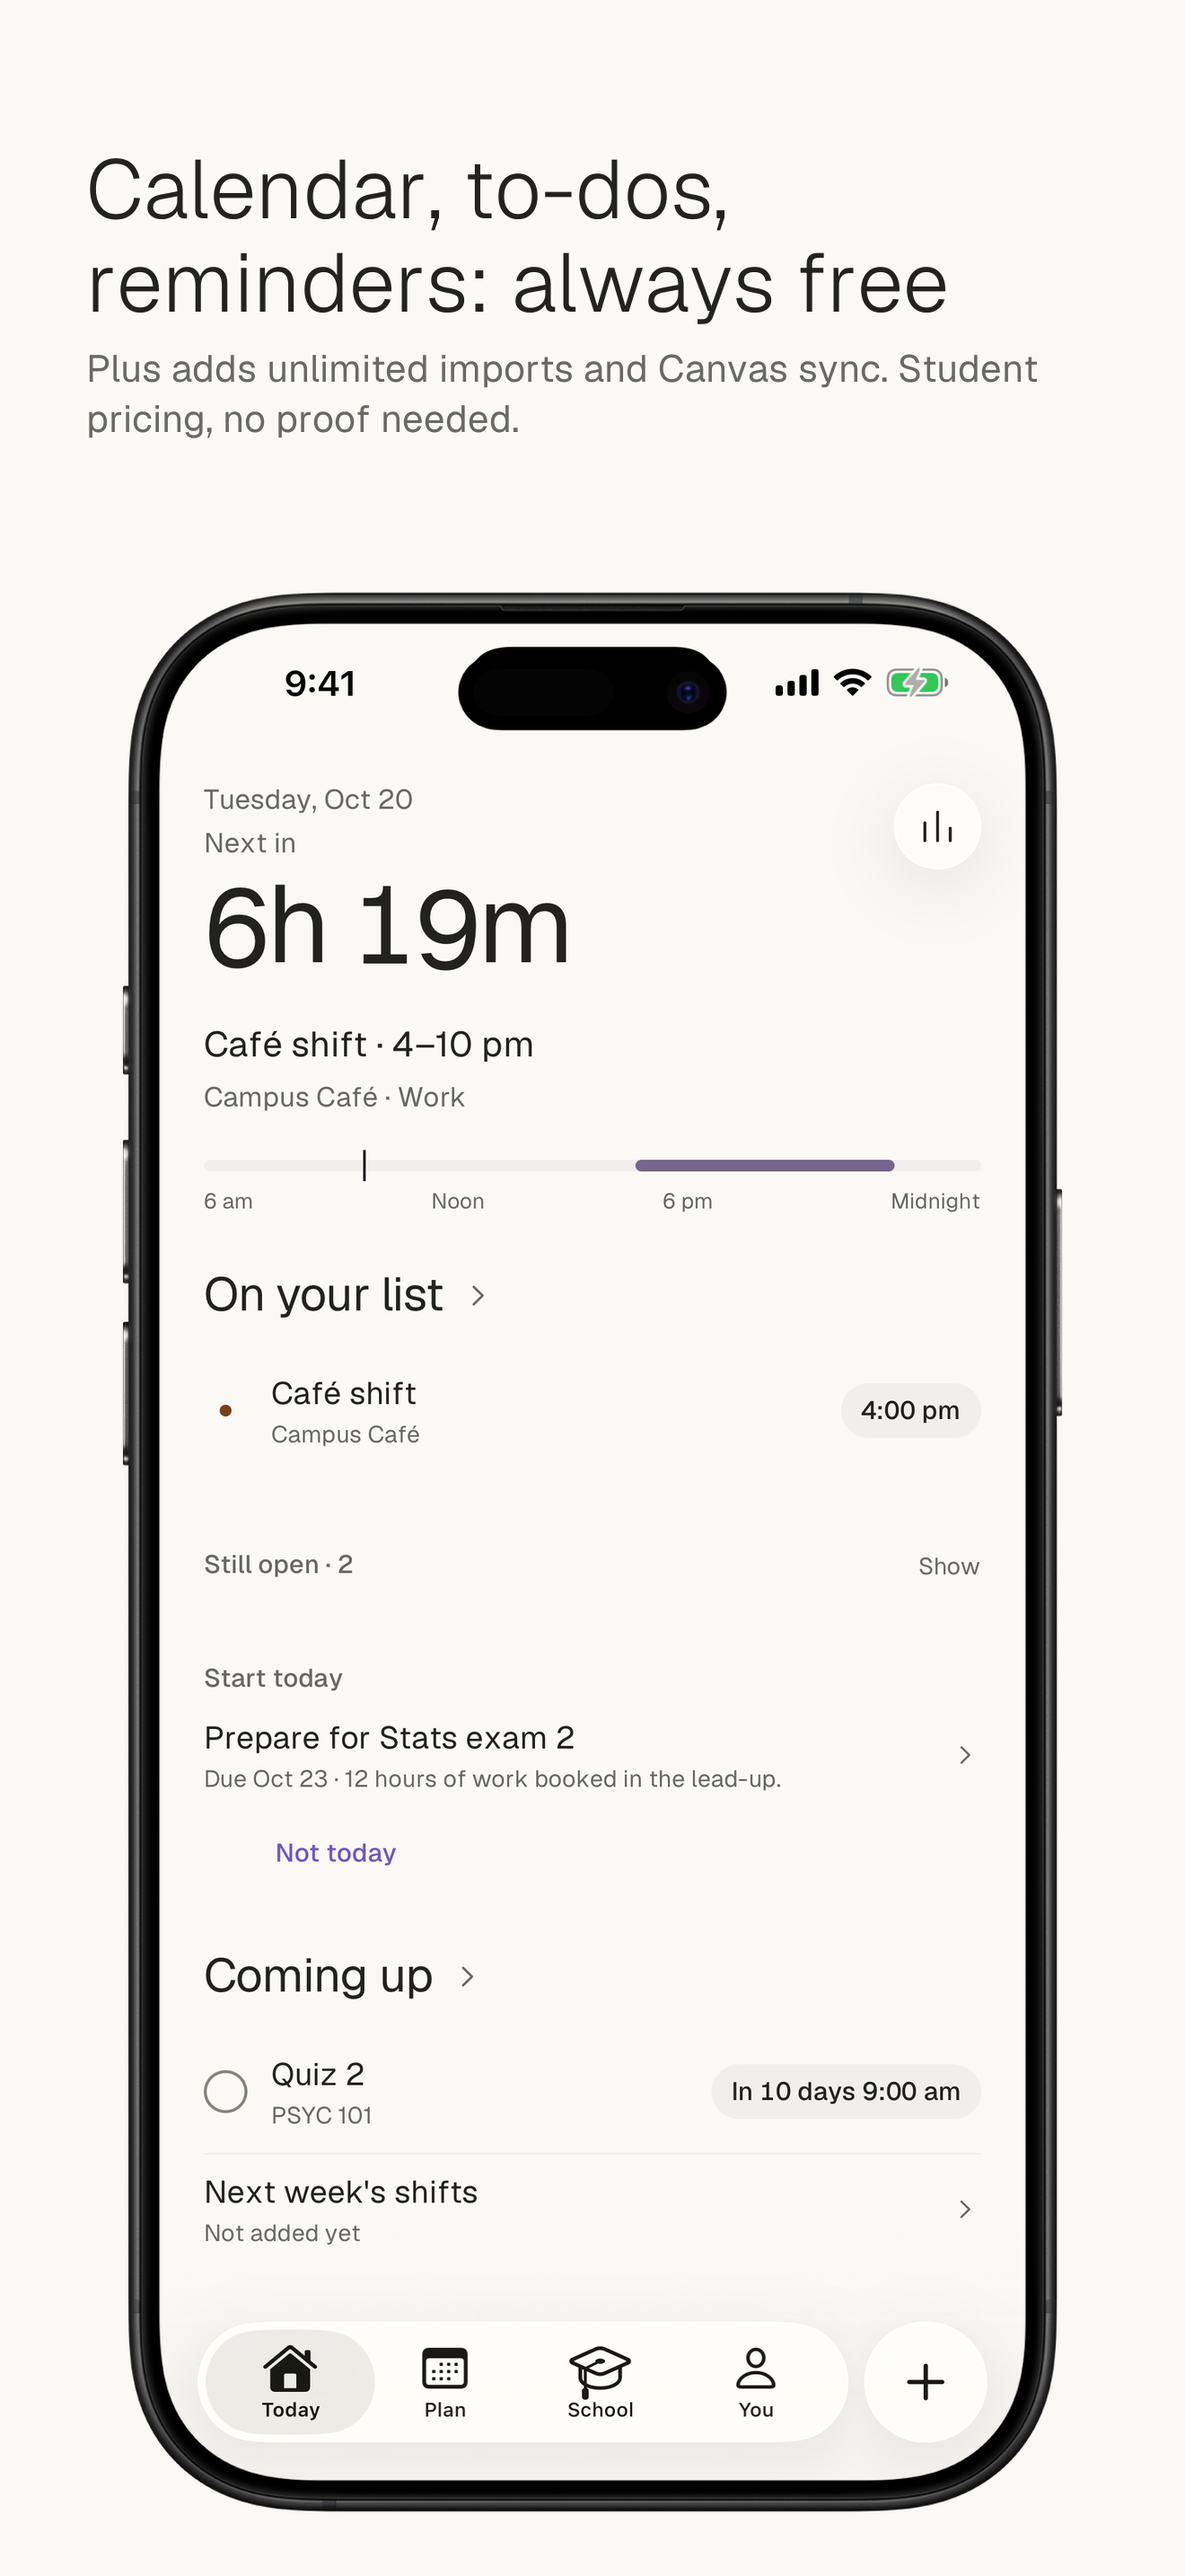
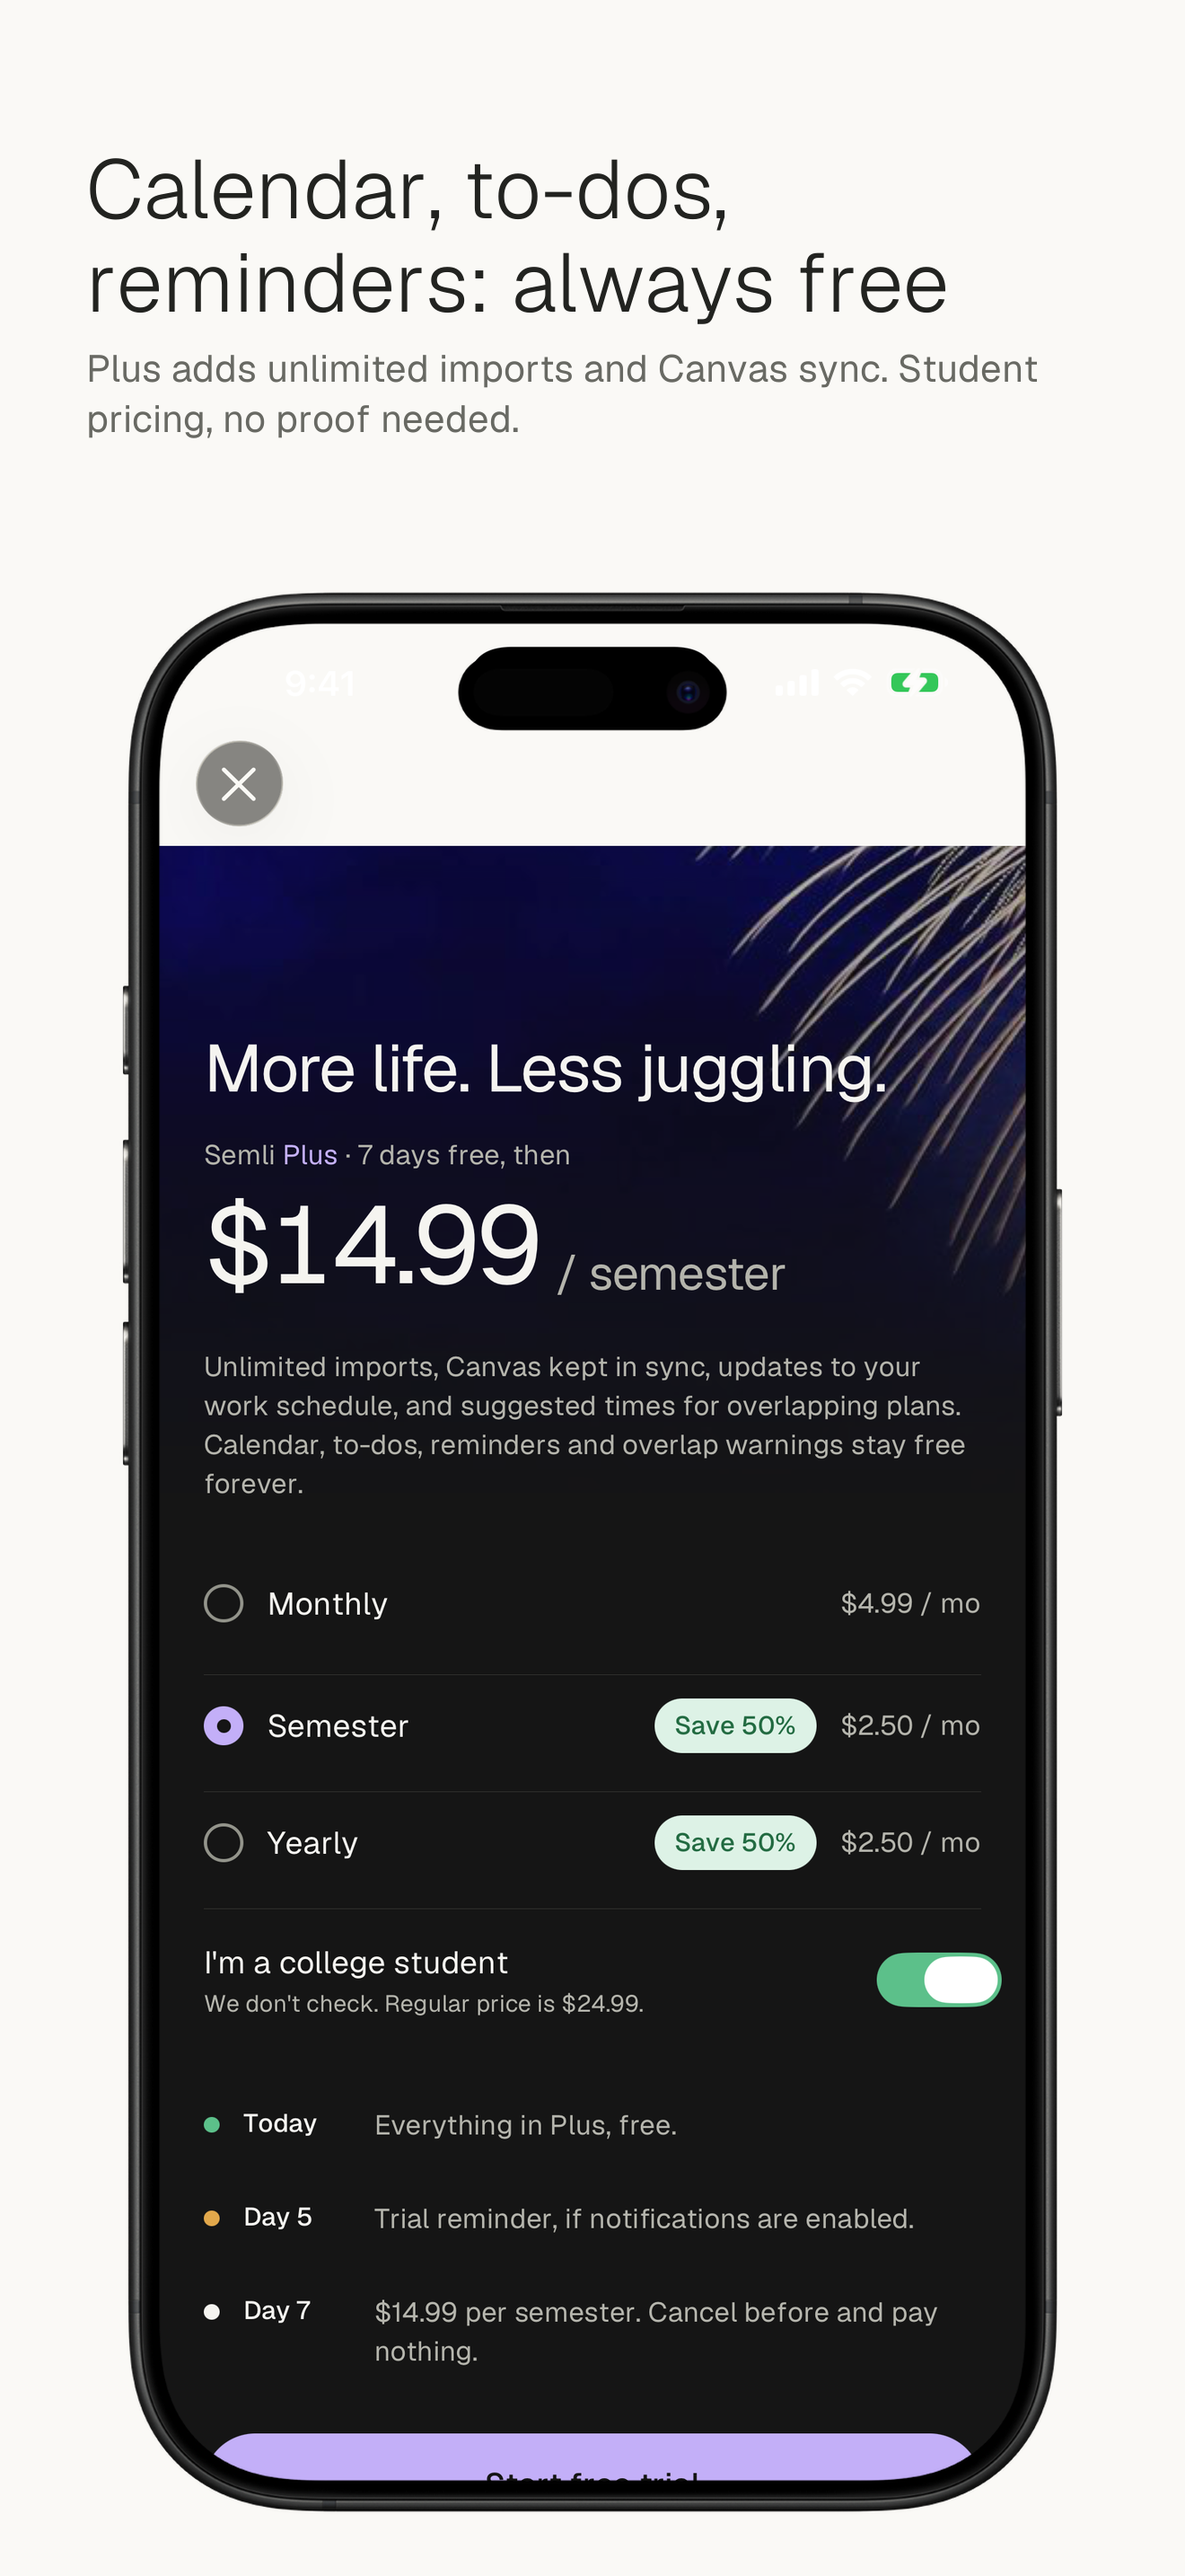
Refactor code structure and remove redundant code blocks for improved readability and maintainability

diff --git a/apps/mobile/src/store/sample.ts b/apps/mobile/src/store/sample.ts
@@ -85,11 +85,12 @@ export function sampleWeek(today: string, options: { student?: boolean; preview?
 }
 
 /**
- * Development only: next week's Campus Café schedule as the model would read it, one shift
- * with no time. Opens the review screen for screenshots without calling the API.
+ * Development only: a Campus Café schedule as the model would read it, for the review screen
+ * without calling the API. `next` is next week with one shift missing its time; `update` is
+ * this week with one shift moved, one new and one dropped, so the review shows the changes.
  */
-export function sampleScheduleExtraction(today: string): Extraction {
-  const next = weekOf(addDays(today, 7)) as [string, string, string, string, string, string, string];
+export function sampleScheduleExtraction(today: string, mode: 'next' | 'update' = 'next'): Extraction {
+  const next = weekOf(mode === 'next' ? addDays(today, 7) : today) as [string, string, string, string, string, string, string];
   const shift = (date: string, start: string | null, end: string | null) => ({
     kind: 'event' as const, title: 'Café shift', category: 'work' as const, date, start, end, is_deadline: false,
     repeat_weekdays: [], repeat_until: null, course_code: null, evidence: `${date} ${start ?? ''}–${end ?? ''}`,
@@ -97,7 +98,9 @@ export function sampleScheduleExtraction(today: string): Extraction {
   });
   return {
     detected_type: 'work_schedule', employer: EMPLOYER, course: null, covers_from: next[0], covers_to: next[6],
-    items: [shift(next[0], '16:00', '22:00'), shift(next[1], '16:00', '22:00'), shift(next[3], '16:00', '22:00'), shift(next[4], null, null), shift(next[5], '09:00', '15:00'), shift(next[6], '11:00', '17:00')],
+    items: mode === 'next'
+      ? [shift(next[0], '16:00', '22:00'), shift(next[1], '16:00', '22:00'), shift(next[3], '16:00', '22:00'), shift(next[4], null, null), shift(next[5], '09:00', '15:00'), shift(next[6], '11:00', '17:00')]
+      : [shift(next[0], '16:00', '22:00'), shift(next[1], '16:00', '22:00'), shift(next[2], '17:00', '21:00'), shift(next[3], '17:00', '23:00'), shift(next[6], '11:00', '17:00')],
   };
 }
 

diff --git a/apps/mobile/src/app/review.tsx b/apps/mobile/src/app/review.tsx
@@ -3,7 +3,7 @@ import {
   type CommitPlan, type DatedDraft, type Draft,
 } from '@dayli/core';
 import type { Item } from '@dayli/schema';
-import { router } from 'expo-router';
+import { router, useLocalSearchParams } from 'expo-router';
 import { useCallback, useEffect, useMemo, useRef, useState, type ReactNode } from 'react';
 import { ScrollView, StyleSheet, View } from 'react-native';
 import Animated from 'react-native-reanimated';
@@ -24,6 +24,7 @@ import { usePlusAccess } from '@/lib/plus-access';
 import { purchaseErrorMessage } from '@/lib/revenuecat';
 import { usePurchases } from '@/providers/PurchasesProvider';
 import { newId, useCourseList, useItemList, useStore } from '@/store';
+import { sampleScheduleExtraction } from '@/store/sample';
 import { SCREEN_GUTTER, useTheme } from '@/theme';
 
 /*
@@ -37,7 +38,14 @@ type SeriesEnd = { mode: 'suggested' | 'pick'; date: string };
 
 export default function ReviewScreen() {
   const { c } = useTheme();
-  const pending = useStore((s) => s.pending);
+  // Development only: semli://review?dev=schedule|update opens the sample schedule for screenshots.
+  const params = useLocalSearchParams<{ dev?: string }>();
+  const devMode = __DEV__ && (params.dev === 'schedule' || params.dev === 'update') ? params.dev : null;
+  const stored = useStore((s) => s.pending);
+  const pending = useMemo(
+    () => stored ?? (devMode ? { extraction: sampleScheduleExtraction(localParts(new Date()).date, devMode === 'update' ? 'update' : 'next'), source: 'Screenshot' } : null),
+    [stored, devMode],
+  );
   const setPending = useStore((s) => s.setPending);
   const applyPlan = useStore((s) => s.applyPlan);
   const showToast = useStore((s) => s.showToast);

diff --git a/apps/mobile/src/app/_layout.tsx b/apps/mobile/src/app/_layout.tsx
@@ -82,6 +82,14 @@ function RootLayout() {
           useStore.setState({ items: Object.fromEntries(week.items.map((i) => [i.id, i])), courses: week.courses, schedules: week.schedules });
         }
       }
+      if (cmd === 'plus') {
+        // Back into onboarding, where dev-step.txt = plus opens the paywall page without a cover.
+        store.setSettings({ onboarded: false, seeded: true, isStudent: true, major: 'nursing' });
+        if (Object.keys(store.items).length === 0) {
+          const week = sampleWeek(today, { student: true, preview: true });
+          useStore.setState({ items: Object.fromEntries(week.items.map((i) => [i.id, i])), courses: week.courses, schedules: week.schedules });
+        }
+      }
       if (cmd === 'review' || cmd === 'review-update') {
         store.setPending({ extraction: (cmd === 'review' ? sampleScheduleExtraction : sampleScheduleUpdate)(today), source: 'Screenshot' });
         setTimeout(() => router.push('/review'), 2500);

diff --git a/apps/mobile/src/lib/dev.ts b/apps/mobile/src/lib/dev.ts
@@ -16,7 +16,7 @@ export async function devStep(): Promise<string | null> {
   }
 }
 
-/** Reads the dev file as a command: "sample", "moment", "item", "hours", "list", "review", or "review-update". */
+/** Reads the dev file as a command: "sample", "moment", "item", "hours", "list", "plus", "review", or "review-update". */
 export async function devCommand(): Promise<string | null> {
   if (!__DEV__) return null;
   try {

diff --git a/design/render-screenshots.py b/design/render-screenshots.py
@@ -4,7 +4,7 @@
 Input: design/screenshots/raw/<name>.png, 1320 x 2868 captures from the iPhone 17 Pro Max
 simulator (dev build, light mode, 9:41 status bar; see docs/launch-guide.md, part 2).
 Output: design/screenshots/<nn>-<name>.png at 1320 x 2868, no alpha, ready for the
-6.9-inch slot. Caption in Geist on paper, ink text, one device per image bleeding off
+6.9-inch slot. Caption in Geist Medium on paper, ink text, one device per image bleeding off
 the bottom edge, as the best-selling planners do (Things, Structured, Opal).
 
     python3 design/render-screenshots.py                 # all, default layout
@@ -26,6 +26,8 @@ RAW = ROOT / "design" / "screenshots" / "raw"
 OUT = ROOT / "design" / "screenshots"
 FONTS = ROOT / "apps" / "mobile" / "assets" / "fonts"
 WORDMARK = ROOT / "apps" / "mobile" / "assets" / "images" / "splash-icon-light.png"
+FRAME = ROOT / "apps" / "web" / "public" / "phones" / "iphone-frame.png"  # 944 x 1902, the site's device render
+FRAME_MASK = ROOT / "apps" / "web" / "public" / "phones" / "iphone-screen-mask.png"  # 850 x 1814, screen box at (47, 44)
 
 W, H = 1320, 2868
 PAPER = (250, 249, 246)
@@ -45,7 +47,7 @@ class Layout:
     secondary: tuple[int, int, int]
     title_size: int = 112
     title_lead: int = 124
-    title_weight: str = "Regular"
+    title_weight: str = "Medium"
     sub_size: int = 46
     sub_lead: int = 58
     margin: int = 96
@@ -55,13 +57,15 @@ class Layout:
     bezel: int = 28
     radius: int = 140
     shadow: int = 44
+    frame: bool = False  # True draws the site's photographic iPhone frame instead of the flat bezel
 
 
 LAYOUTS = {
     "left": Layout("left", "left", PAPER, INK, SECONDARY),
     "center": Layout("center", "center", PAPER, INK, SECONDARY, title_size=120, title_lead=132),
     "ink": Layout("ink", "center", INK, PAPER, DARK_SECONDARY, title_size=120, title_lead=132),
-    "medium": Layout("medium", "left", PAPER, INK, SECONDARY, title_weight="Medium"),
+    "regular": Layout("regular", "left", PAPER, INK, SECONDARY, title_weight="Regular"),
+    "frame": Layout("frame", "left", PAPER, INK, SECONDARY, frame=True, screen_w=1176),
 }
 
 # Order matters: the first three show in search results. Titles fit two lines at 112px.
@@ -97,8 +101,27 @@ def wrap(draw: ImageDraw.ImageDraw, text: str, f: ImageFont.FreeTypeFont, width:
     return lines
 
 
+def framed(capture: Image.Image, L: Layout) -> Image.Image:
+    """The capture inside the website's iPhone render; `screen_w` is the frame's outer width here."""
+    frame = Image.open(FRAME).convert("RGBA")
+    mask = Image.open(FRAME_MASK).convert("RGBA").split()[-1]
+    s = L.screen_w / frame.width
+    out = Image.new("RGBA", (L.screen_w, round(frame.height * s)), (0, 0, 0, 0))
+    box = (round(47 * s), round(44 * s), round(850 * s), round(1814 * s))
+    shot = capture.convert("RGBA").resize((box[2], box[3]), Image.LANCZOS)
+    shot.putalpha(mask.resize((box[2], box[3]), Image.LANCZOS))
+    out.alpha_composite(shot, (box[0], box[1]))
+    out.alpha_composite(frame.resize(out.size, Image.LANCZOS))
+    pad = L.shadow * 3
+    canvas = Image.new("RGBA", (out.width + 2 * pad, out.height + 2 * pad), (0, 0, 0, 0))
+    canvas.alpha_composite(out, (pad, pad))
+    return canvas
+
+
 def device(capture: Image.Image, L: Layout) -> Image.Image:
     """The capture inside a bezel with rounded corners, on a transparent canvas with a soft shadow."""
+    if L.frame:
+        return framed(capture, L)
     scale = L.screen_w / capture.width
     screen = capture.convert("RGB").resize((L.screen_w, round(capture.height * scale)), Image.LANCZOS)
     sw, sh = screen.size
@@ -130,10 +153,39 @@ def text_block(draw: ImageDraw.ImageDraw, lines: list[str], f: ImageFont.FreeTyp
     return y
 
 
+def fix_paywall_band(capture: Image.Image) -> Image.Image:
+    """The paywall cover lays out below the status bar in the current build, leaving a paper band
+    with white status text on it. Paint that band the dark canvas until the screen is fixed."""
+    img = capture.convert("RGB")
+    px = img.load()
+    for y in range(0, 350):
+        for x in range(img.width):
+            r, g, b = px[x, y]
+            if 236 < r < 254 and 236 < g < 253 and 230 < b < 250 and abs(r - g) < 12:  # paper, not the white glyphs
+                px[x, y] = (21, 21, 21)
+    return img
+
+
+def fix_grey_band(capture: Image.Image) -> Image.Image:
+    """A dev-client overlay tints the status bar grey on captures taken right after a deep link. Paint it paper."""
+    img = capture.convert("RGB")
+    px = img.load()
+    for y in range(0, 230):
+        for x in range(img.width):
+            r, g, b = px[x, y]
+            if 70 < r < 244 and abs(r - g) < 10 and abs(g - b) < 10:
+                px[x, y] = (250, 249, 246)
+    return img
+
+
 def render(name: str, title: str, sub: str, index: int, L: Layout, out_dir: Path, wordmark: bool) -> Path:
     capture = Image.open(RAW / f"{name}.png")
     if capture.size != (W, H):
         raise SystemExit(f"{name}.png is {capture.size}, expected {W}x{H} (iPhone 17 Pro Max simulator)")
+    if name == "paywall":
+        capture = fix_paywall_band(capture)
+    if name == "today-mon":
+        capture = fix_grey_band(capture)
     img = Image.new("RGB", (W, H), L.bg)
     draw = ImageDraw.Draw(img)
     width = W - 2 * L.margin

diff --git a/design/screenshots/compose.py b/design/screenshots/compose.py
@@ -24,7 +24,7 @@ PHONE_TOP = 640
 SHOTS = [
     ('today', 'Know what matters today', 'Classes, work shifts and due dates in one list, with a countdown to what’s next.'),
     ('review', 'Screenshot your work schedule. Done.', 'Semli reads the shifts and asks only about the one with no time.'),
-    ('item', 'New schedule? See only what changed', 'Moved, new and dropped shifts, before anything is saved.'),
+    ('update', 'New schedule? See only what changed', 'Moved, new and dropped shifts, before anything is saved.'),
     ('plan', 'Your whole week as a chart', 'Lectures, shifts and study time on one timeline. Overlaps show in red.'),
     ('school', 'Every syllabus, mapped to the term', 'Exams and assignments from a PDF, or kept in sync with Canvas.'),
     ('paywall', 'Calendar, to-dos, reminders: always free', 'Plus adds unlimited imports and Canvas sync. Student pricing, no proof needed.'),

diff --git a/docs/app-store-connect.md b/docs/app-store-connect.md
@@ -91,7 +91,7 @@ First release. Syllabus and work-schedule import, Canvas sync, reminders, and th
 |---|---|---|
 | 1 | `1-today.png` | Know what matters today |
 | 2 | `2-review.png` | Screenshot your work schedule. Done. |
-| 3 | `3-item.png` | New schedule? See only what changed |
+| 3 | `3-update.png` | New schedule? See only what changed |
 | 4 | `4-plan.png` | Your whole week as a chart |
 | 5 | `5-school.png` | Every syllabus, mapped to the term |
 | 6 | `6-paywall.png` | Calendar, to-dos, reminders: always free |
